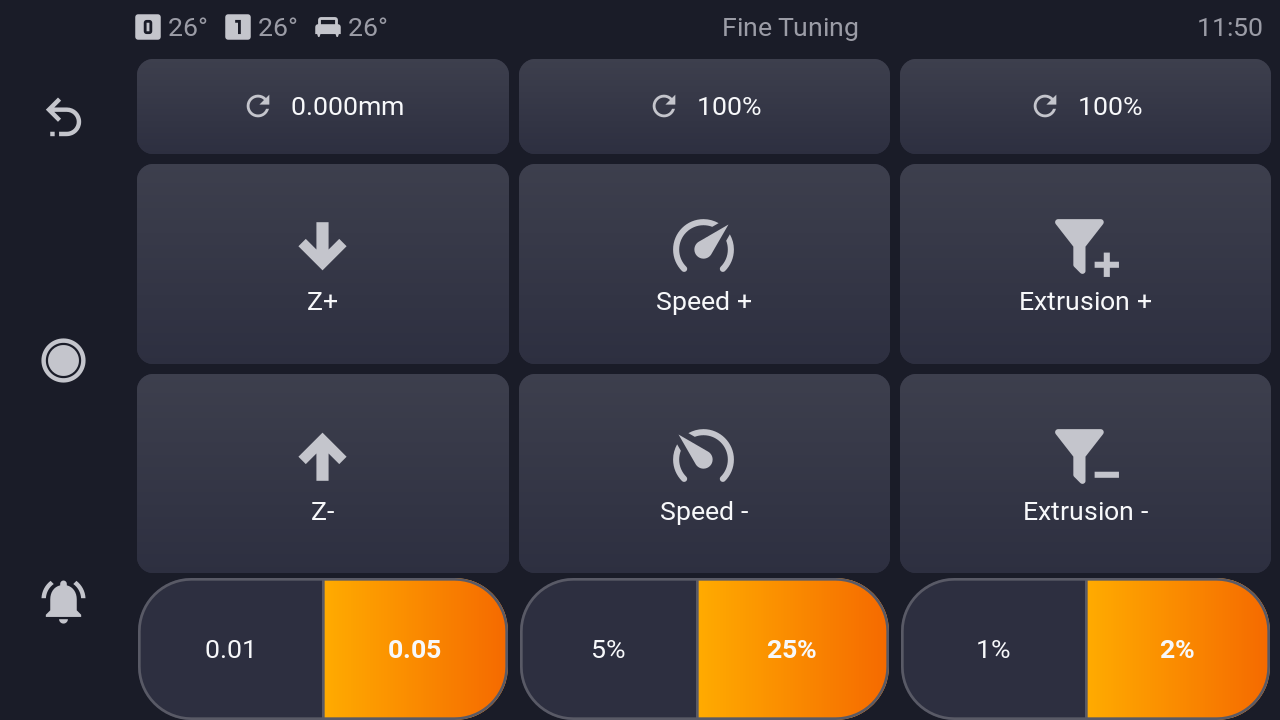
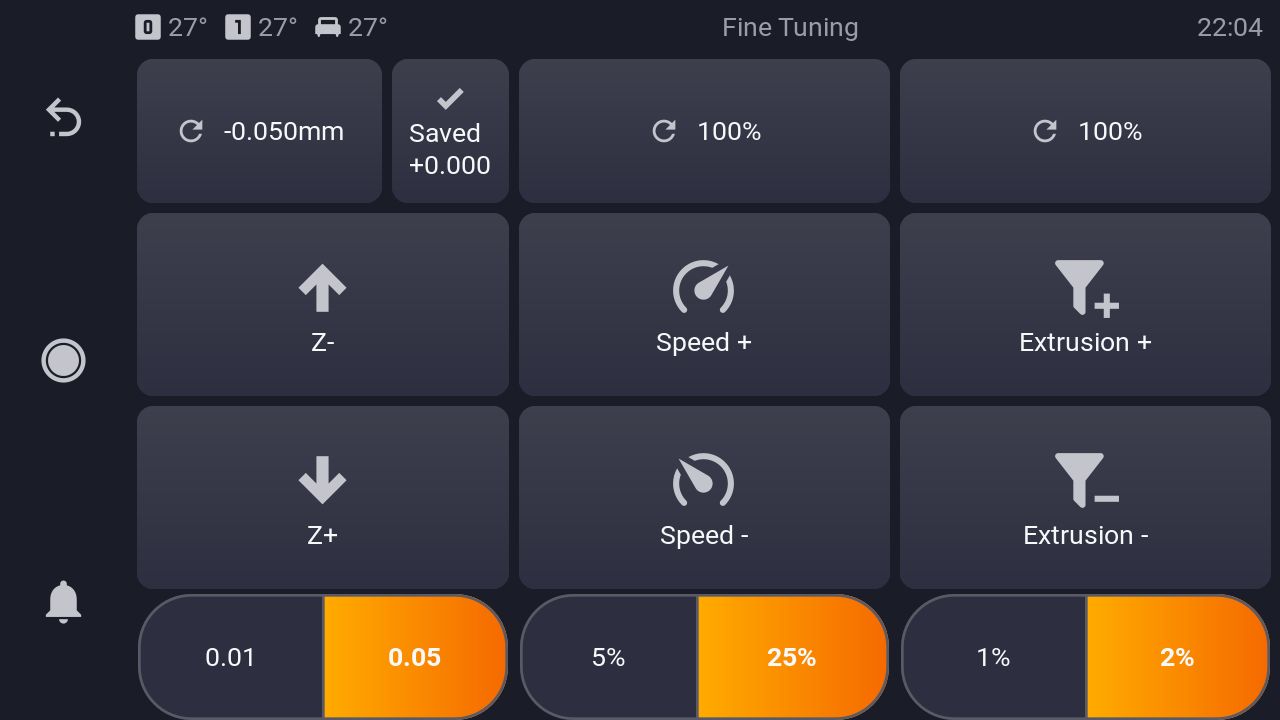
KlipperScreen: One Save Z offset button after a print
The print page showed "Save Z Endstop" and "Save Z Probe" after a print
with a Z offset; both store the offset in the Z origin since v1.3.1, and
KlipperScreen sent a SAVE_CONFIG afterwards.  It now shows one "Save Z
offset" button with the dialog of Fine Tuning, the second button is
hidden.  The dialog is a centered block in the middle, as KlipperScreen's
confirmations.  Manual: new Fine Tuning screenshot.

Issue #6

diff --git a/klipperscreen/snapmaker_j1/__init__.py b/klipperscreen/snapmaker_j1/__init__.py
@@ -613,11 +613,63 @@ def _patch_job_status(panel_class):
         if deactivate is not None:
             deactivate(self)
 
+    # After a print: one "Save Z offset" button instead of "Save Z Endstop"
+    # and "Save Z Probe" (both store the offset in the Z origin, see
+    # snapmaker_j1_probe), with the dialog of Fine Tuning and without
+    # KlipperScreen's SAVE_CONFIG afterwards; the second button's place
+    # stays empty, the other buttons keep theirs
+    create_buttons = panel_class.create_buttons
+
+    def _create_buttons(self):
+        create_buttons(self)
+        self.buttons["save_offset_endstop"].set_label(_("Save Z offset"))
+        probe = self.buttons["save_offset_probe"]
+        probe.set_no_show_all(True)
+        probe.hide()
+
+    def _save_offset(self, widget, device):
+        _confirm_save_z(self, self.zoffset)
+
     _create_status_grid.snapmaker_j1 = True
     panel_class.create_status_grid = _create_status_grid
+    panel_class.create_buttons = _create_buttons
+    panel_class.save_offset = _save_offset
     panel_class.process_update = _process_update
     panel_class.activate = _activate
     panel_class.deactivate = _deactivate
+
+
+def _confirm_save_z(panel, offset):
+    # Saving the Z offset (Fine Tuning, print page): stored in the Z origin
+    # by Z_OFFSET_APPLY_ENDSTOP of snapmaker_j1_probe, no SAVE_CONFIG.  As
+    # KlipperScreen's confirmations: a centered block of text in the middle
+    # of the dialog, the value in bold between the question and the
+    # explanation
+    label = Gtk.Label(hexpand=True, vexpand=True, halign=Gtk.Align.CENTER,
+                      valign=Gtk.Align.CENTER, wrap=True,
+                      wrap_mode=Pango.WrapMode.WORD_CHAR,
+                      justify=Gtk.Justification.CENTER, max_width_chars=48)
+    label.set_markup("%s\n\n<b>%s</b>\n\n%s" % (
+        GLib.markup_escape_text(_("Save the Z offset?")),
+        GLib.markup_escape_text("%+.3f mm" % (offset,)),
+        GLib.markup_escape_text(
+            _("It moves into the Z origin, as the calibration does, and"
+              " applies to every print from now on. The offset shows 0"
+              " afterwards; the nozzle stays where it is. During a print"
+              " it is stored when the print ends."))))
+    buttons = [
+        {"name": _("Save"), "response": Gtk.ResponseType.APPLY,
+         "style": "dialog-info"},
+        {"name": _("Cancel"), "response": Gtk.ResponseType.CANCEL,
+         "style": "dialog-error"},
+    ]
+
+    def response(dialog, response_id):
+        panel._gtk.remove_dialog(dialog)
+        if response_id == Gtk.ResponseType.APPLY:
+            panel._screen._ws.api.gcode_script("Z_OFFSET_APPLY_ENDSTOP")
+
+    panel._gtk.Dialog(_("Save Z offset"), buttons, label, response)
 
 
 def _patch_fine_tune(panel_class):
@@ -687,29 +739,7 @@ def _patch_fine_tune(panel_class):
         return "%s\n%+.3f" % (_("Saved"), saved)
 
     def _confirm_save(widget, self):
-        # As the other dialogs of the add-on: centered text, the value in
-        # bold between the question and the explanation
-        label = Gtk.Label(wrap=True, justify=Gtk.Justification.CENTER)
-        label.set_markup("%s\n\n<b>%s</b>\n\n%s" % (
-            GLib.markup_escape_text(_("Save the Z offset?")),
-            GLib.markup_escape_text("%+.3f mm" % (self.z_offset,)),
-            GLib.markup_escape_text(
-                _("It moves into the Z origin, as the calibration does, and"
-                  " applies to every print from now on. The offset shows 0"
-                  " afterwards; the nozzle stays where it is. During a print"
-                  " it is stored when the print ends."))))
-        buttons = [
-            {"name": _("Save"), "response": Gtk.ResponseType.APPLY,
-             "style": "dialog-info"},
-            {"name": _("Cancel"), "response": Gtk.ResponseType.CANCEL,
-             "style": "dialog-error"},
-        ]
-        self._gtk.Dialog(_("Save Z offset"), buttons, label, _save, self)
-
-    def _save(dialog, response_id, self):
-        self._gtk.remove_dialog(dialog)
-        if response_id == Gtk.ResponseType.APPLY:
-            self._screen._ws.api.gcode_script("Z_OFFSET_APPLY_ENDSTOP")
+        _confirm_save_z(self, self.z_offset)
 
     _init.snapmaker_j1 = True
     panel_class.__init__ = _init

diff --git a/CHANGELOG.md b/CHANGELOG.md
@@ -33,7 +33,10 @@ released as git tags `vX.Y.Z`.  The update manager shows this version.
   button next to the Z offset; it stores the offset in the Z origin as
   Mainsail's **Save** does, after a confirmation.  The button shows the Z
   offsets saved since the last Z Offset Calibration.  Z- is now above
-  Z+ ([#6](https://github.com/Nimrasol/KlipperSnapmakerJ1/issues/6)).
+  Z+.  After a print, the print page offers one **Save Z offset** button
+  with the same dialog instead of "Save Z Endstop" and "Save Z Probe",
+  which did the same and asked for a Save Config afterwards
+  ([#6](https://github.com/Nimrasol/KlipperSnapmakerJ1/issues/6)).
 - **Z offset only on a homed printer:** without homing, Klipper took
   every tap on Z+/Z- into the Z offset although nothing moved, and saving
   it shifted the Z origin unnoticed.  `SET_GCODE_OFFSET` now refuses Z

diff --git a/docs/Manual.md b/docs/Manual.md
@@ -596,6 +596,8 @@ The Light entry is also in the menu of the print page.
     it in the Z origin as the calibration does, at once or, during a
     print, when the print ends; the offset shows 0 afterwards and the
     nozzle stays where it is.  No Save Config and no restart are needed.
+    After a print with a Z offset, the print page offers the same as
+    **Save Z offset**.
   - **Saved:** the button shows the sum of the Z offsets saved since the
     last Z Offset Calibration, which sets it back to 0.
 
